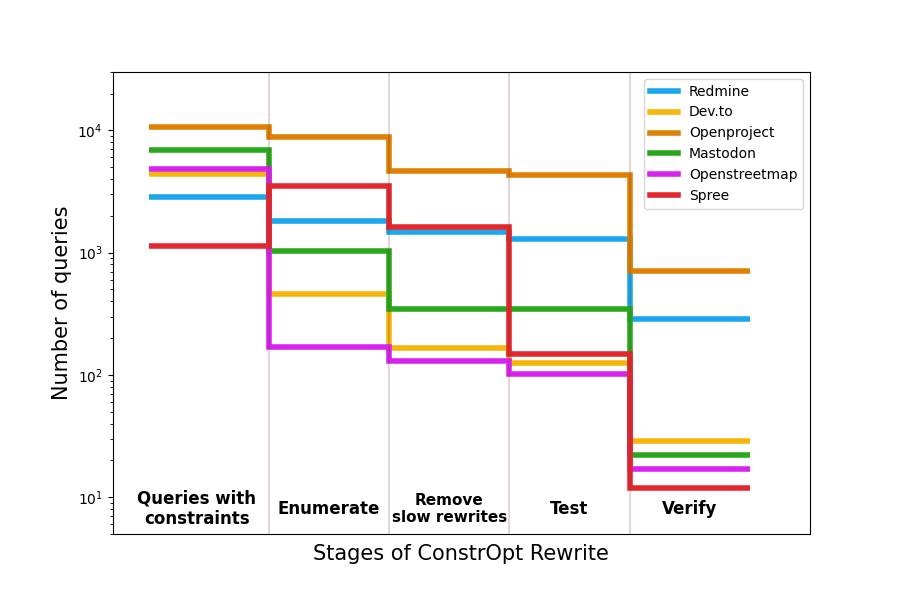
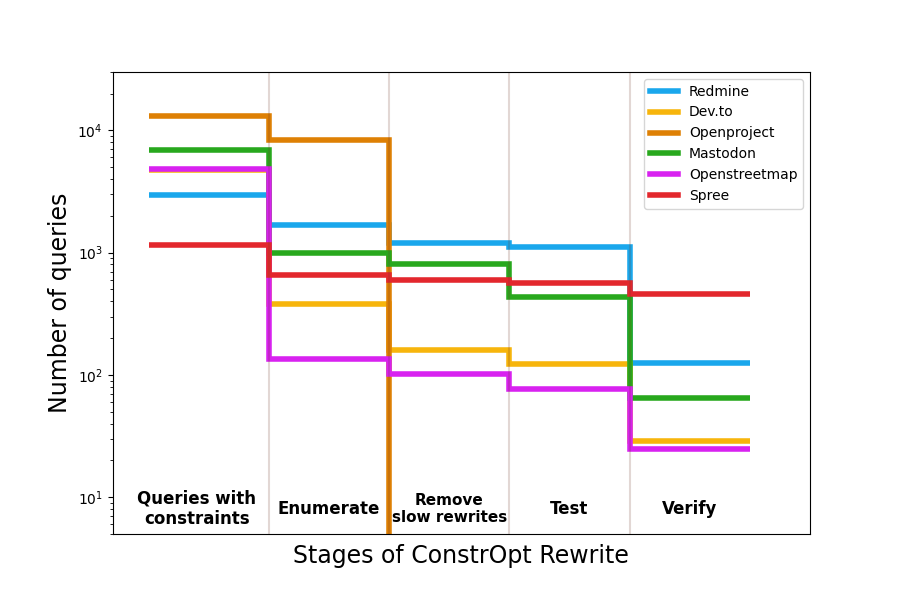
update numbers

Changed region(s): [[0.1556, 0.27, 0.84, 0.96], [0.0311, 0.33, 0.0933, 0.69], [0.1556, 0.18, 0.4356, 0.24]]

diff --git a/constropt/autrite/experiment_plots/plot_rewrite_cnt.py b/constropt/autrite/experiment_plots/plot_rewrite_cnt.py
@@ -2,51 +2,51 @@ import seaborn as sns
 import matplotlib.pyplot as plt
 
 redmine = [
-    2861, # qs with constraints
-    1830, # qs with rewritten
-    1464, # qs with lower cost
-    1294, # qs with lower cost and pass tests
-    286   # qs get verified
+    2950, # qs with constraints
+    1674, # qs with rewritten
+    1208, # qs with lower cost
+    1103, # qs with lower cost and pass tests
+    124   # qs get verified
 ]
 
 forem = [
-   4411, # qs with constraints
-   461, # qs with rewritten
-   165, # qs with lower cost
-   124, # qs with lower cost and pass tests
+   4772, # qs with constraints
+   381, # qs with rewritten
+   159, # qs with lower cost
+   122, # qs with lower cost and pass tests
    29   # qs get verified 
 ]
 
 openproject = [
-   10676, # qs with constraints
-   8817, # qs with rewritten
-   4687, # qs with lower cost
-   4329, # qs with lower cost and pass tests
-   709   # qs get verified 
+   13125, # qs with constraints
+   8262, # qs with rewritten
+   0, # qs with lower cost
+   0, # qs with lower cost and pass tests
+   0   # qs get verified 
 ]
 
 spree = [
-   1143, # qs with constraints
-   3503, # qs with rewritten
-   1616, # qs with lower cost
-   149, # qs with lower cost and pass tests
-   12   # qs get verified 
+   1163, # qs with constraints
+   656, # qs with rewritten
+   593, # qs with lower cost
+   561, # qs with lower cost and pass tests
+   459   # qs get verified 
 ]
 
 mastodon = [
-   6936, # qs with constraints
-   1040, # qs with rewritten
-   345, # qs with lower cost
-   345, # qs with lower cost and pass tests
-   22   # qs get verified 
+   6955, # qs with constraints
+   984, # qs with rewritten
+   803, # qs with lower cost
+   435, # qs with lower cost and pass tests
+   65   # qs get verified 
 ]
 
 openstreetmap = [
-   4830, # qs with constraints
-   170, # qs with rewritten
-   131, # qs with lower cost
-   102, # qs with lower cost and pass tests
-   17   # qs get verified 
+   4836, # qs with constraints
+   136, # qs with rewritten
+   101, # qs with lower cost
+   76, # qs with lower cost and pass tests
+   25   # qs get verified 
 ]
 
 fig, ax = plt.subplots()
@@ -73,8 +73,8 @@ ax.axvline(3, alpha=0.2, color='#713b28')
 ax.axvline(4, alpha=0.2, color='#713b28')
 ax.axvline(5, alpha=0.2, color='#713b28')
 
-plt.ylabel("Number of queries", size=15)
-plt.xlabel("Stages of ConstrOpt Rewrite", size=15)
+plt.ylabel("Number of queries", size=17)
+plt.xlabel("Stages of ConstrOpt Rewrite", size=17)
 plt.text(1.4, 8, "Queries with\nconstraints", ha='center',size=12, va='center', weight='bold')
 plt.text(2.5, 8, "Enumerate", ha='center',size=12, va='center', weight='bold')
 plt.text(3.5, 8, "Remove\nslow rewrites", ha='center',size=11, va='center', weight='bold')
@@ -87,4 +87,4 @@ plt.yscale('log', base=10)
 plt.legend(prop={'size': 10}, loc='upper right')
 # plt.subplots_adjust(top=0.92, bottom=5, left=0.10, right=0.95, hspace=0.25,
 #                     wspace=0.35)
-plt.savefig("/home/ubuntu/ConstrOpt/figures/7.3/rewrite_cnt.png")
+plt.savefig("/home/ubuntu/ConstrOpt_warning_suppress/figures/7.3/rewrite_cnt.png")
